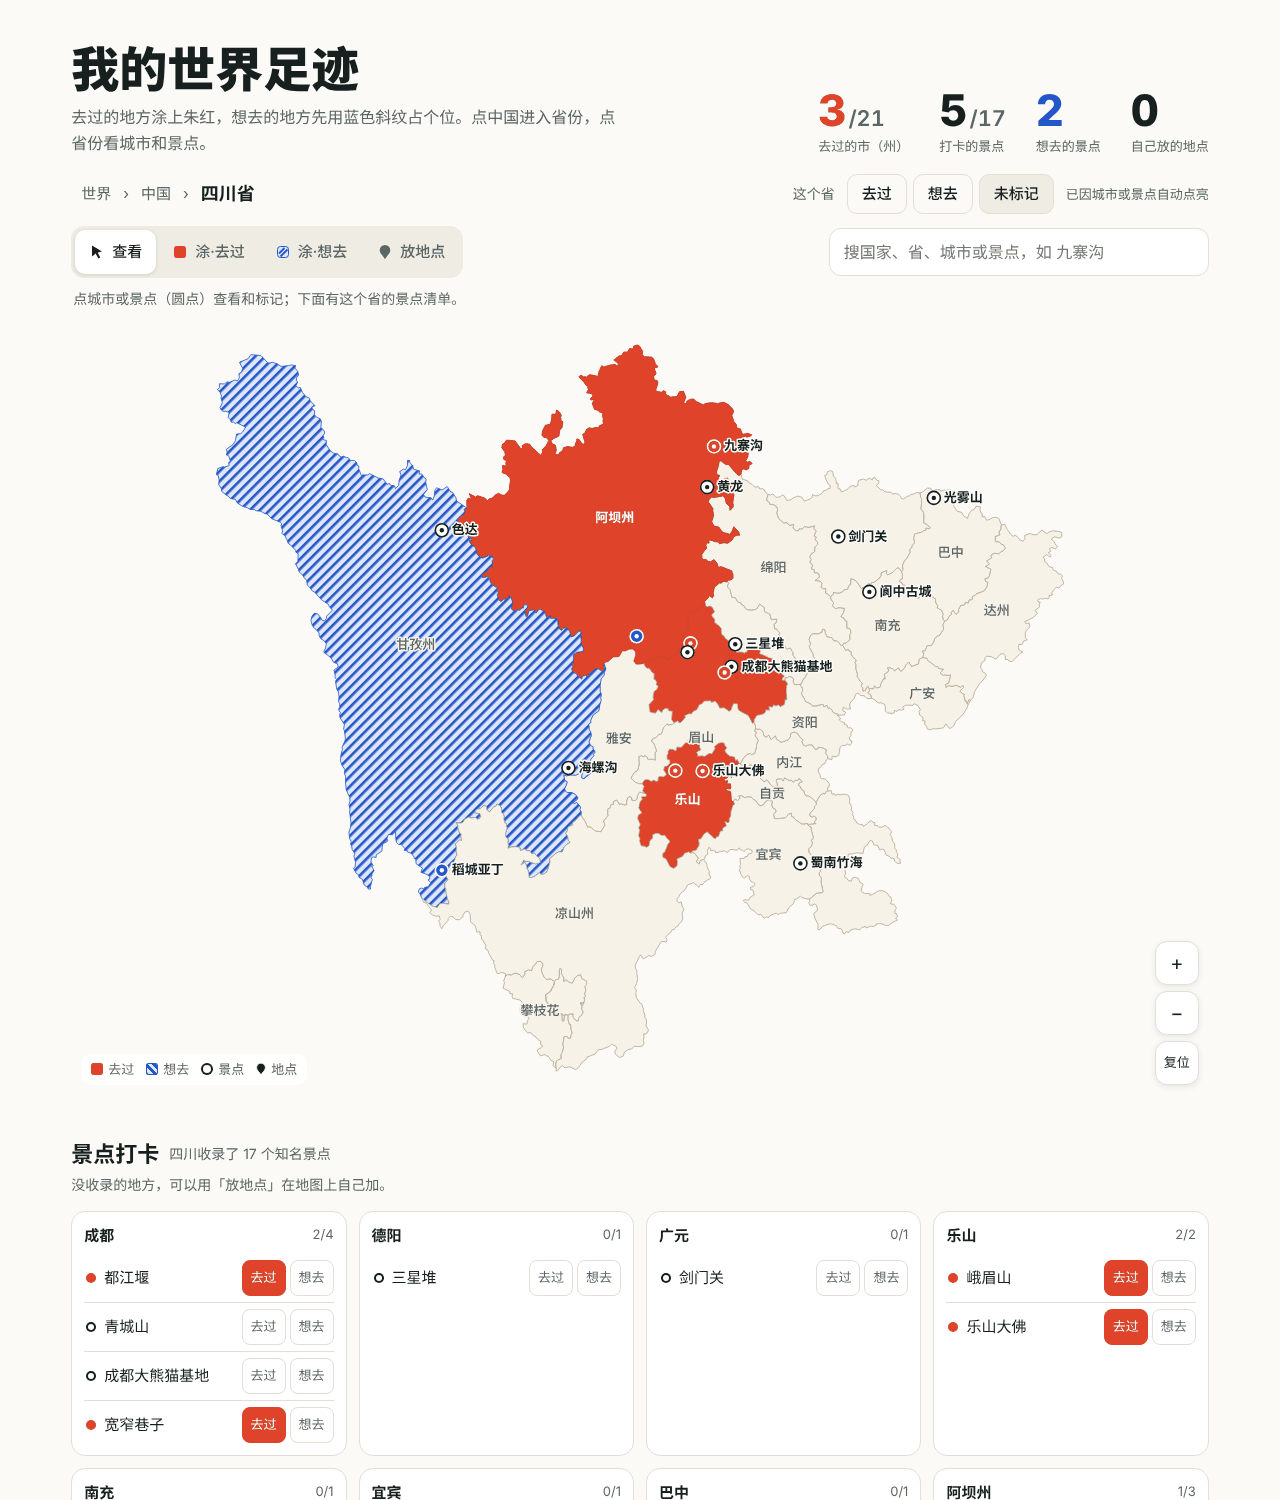
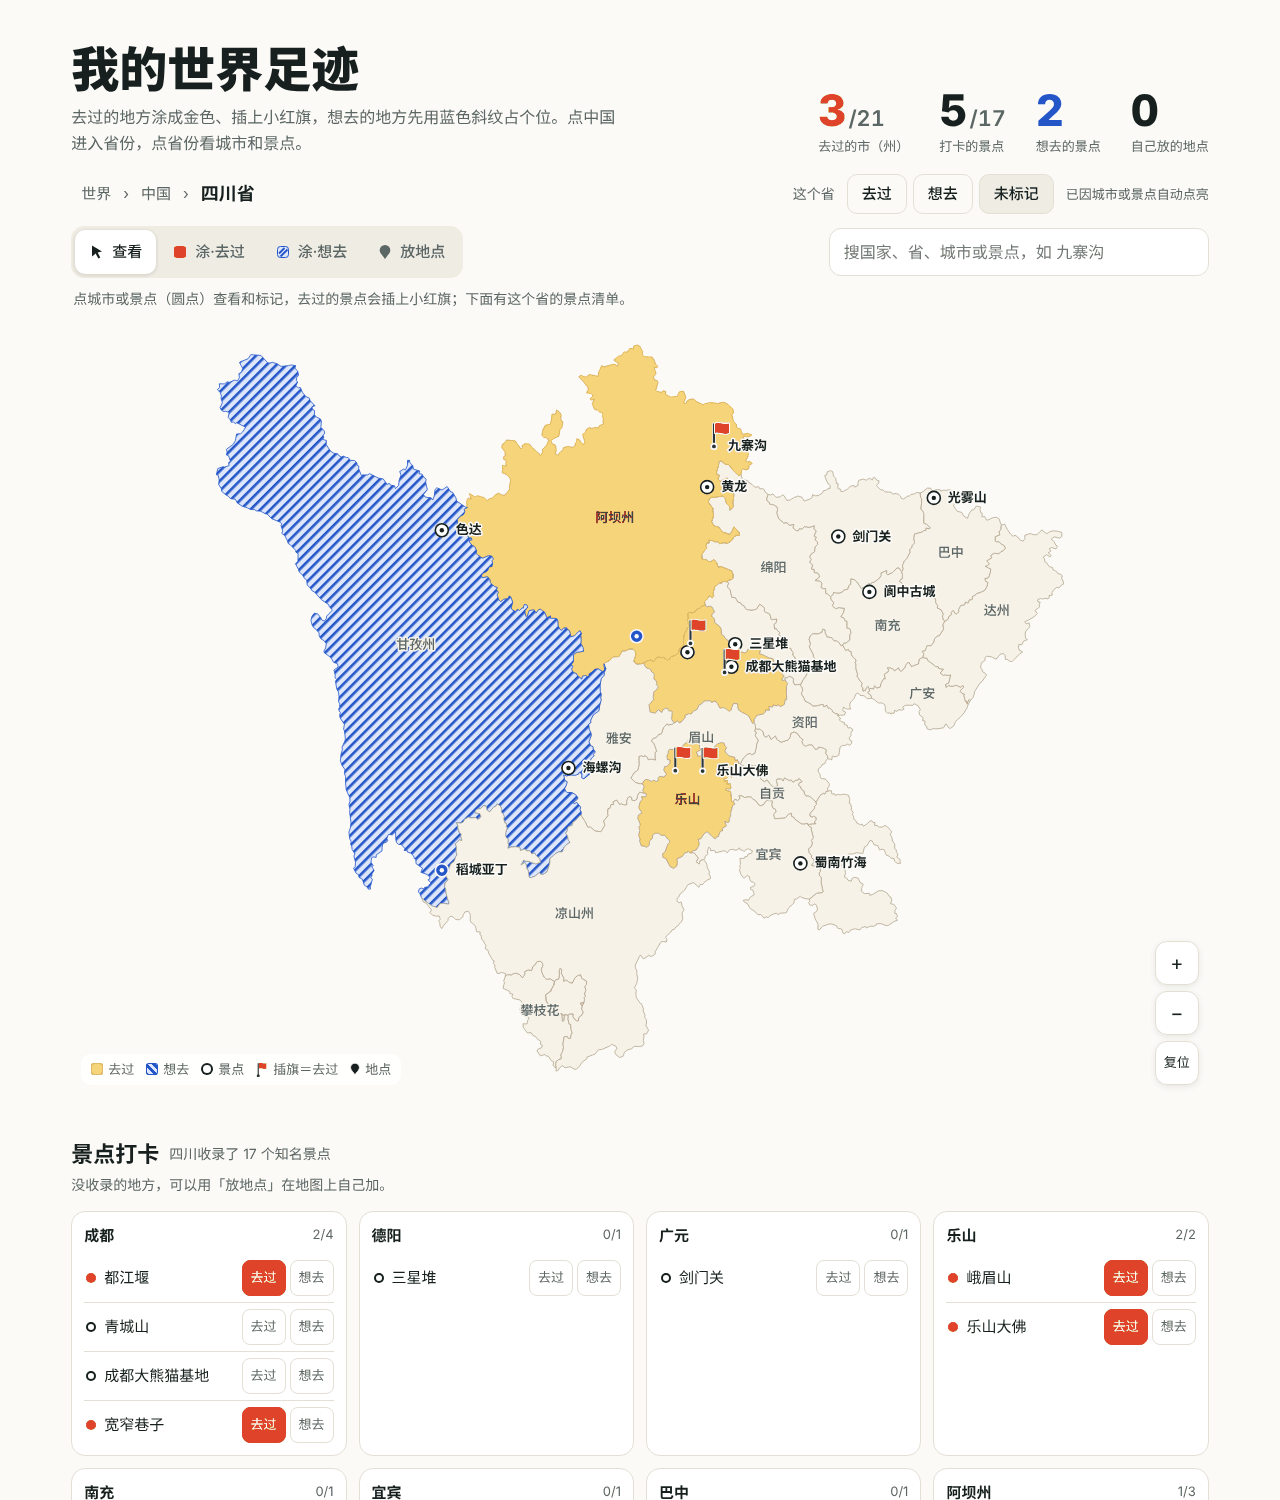
Add files via upload

diff --git a/app.js b/app.js
@@ -13,13 +13,15 @@ const ORDER=['AS','EU','AF','NA','SA','OC','AN'];
 const SN={been:'去过',want:'想去'};
 const W2CN={TW:'710000',HK:'810000',MO:'820000'};
 const PIN='M0 0C-1.5-4.5-8-8.2-8-13.5a8 8 0 1 1 16 0C8-8.2 1.5-4.5 0 0Z';
+// 小红旗：旗杆底部在 (0,0)
+const FLAG_POLE='M-0.9 0V-20h1.8V0Z',FLAG_CLOTH='M1-20C4.5-21.6 8-18.4 13-20V-11.6C8-10 4.5-13.2 1-11.6Z';
 const LS='worldmap.v2',LS1='worldmap.v1',LSG='worldmap.gh';
 const CN_BOX={type:'MultiPoint',coordinates:[[73.5,39.4],[135.1,48.4],[123.3,53.6],[109.6,18.1],[97.3,28.2],[87.5,49.2]]};
 const INSET_PROV=['440000','450000','460000','710000','350000','810000','820000'];
 const HINTS={
   world:{view:'点国家查看或标记，点中国进入省份地图；拖动平移，滚轮或双指缩放。',been:'涂色模式：点一下国家就标为「去过」，再点一下取消。',want:'涂色模式：点一下国家就标为「想去」，再点一下取消。',pin:'点地图上任意位置放一个地点，城市、海岛、雪山都行。'},
-  china:{view:'点省份进入局部图，看城市和景点。',been:'涂色模式：点一下省份就标为「去过」，再点一下取消。',want:'涂色模式：点一下省份就标为「想去」，再点一下取消。',pin:'点地图上任意位置放一个地点。'},
-  prov:{view:'点城市或景点（圆点）查看和标记；下面有这个省的景点清单。',been:'涂色模式：点城市或景点就标为「去过」，再点一下取消。',want:'涂色模式：点城市或景点就标为「想去」，再点一下取消。',pin:'点地图上任意位置放一个自己的地点，比如一家店、一条徒步线。'}
+  china:{view:'点省份进入局部图；去过的城市会插上小红旗，点小红旗可以直接打开那个城市。',been:'涂色模式：点一下省份就标为「去过」，再点一下取消。',want:'涂色模式：点一下省份就标为「想去」，再点一下取消。',pin:'点地图上任意位置放一个地点。'},
+  prov:{view:'点城市或景点（圆点）查看和标记，去过的景点会插上小红旗；下面有这个省的景点清单。',been:'涂色模式：点城市或景点就标为「去过」，再点一下取消。',want:'涂色模式：点城市或景点就标为「想去」，再点一下取消。',pin:'点地图上任意位置放一个自己的地点，比如一家店、一条徒步线。'}
 };
 const esc=v=>String(v??'').replace(/[&<>"']/g,c=>({'&':'&amp;','<':'&lt;','>':'&gt;','"':'&quot;',"'":'&#39;'}[c]));
 const str=(v,n)=>typeof v==='string'?v.slice(0,n):'';
@@ -40,7 +42,7 @@ const b64dec=s=>new TextDecoder().decode(Uint8Array.from(atob((s||'').replace(/\
 
 /* ---------- 状态 ---------- */
 const fig=$('#fig'),cardEl=$('#card'),tip=$('#tip'),syncEl=$('#sync');
-let NAMES={},SPOTS=[],SPOT={},WORLD=null,CHINA=null;const PROV={};
+let NAMES={},CENTERS={},SPOTS=[],SPOT={},WORLD=null,CHINA=null;const PROV={};
 let view='world',prov=null,curFeats=[],AREA={};
 let marks={},pins={},D={};
 let mode='view',backend='init',ro=false,db=null,envClaude=false;
@@ -49,7 +51,7 @@ let sel=null,W=0,H=0,K=1,T=d3.zoomIdentity,TE=[[0,0],[1,1]],lastPt=null,undoFn=n
 /* ---------- 地图骨架 ---------- */
 const svg=d3.select('#map');
 const root=svg.append('g');
-const gBg=root.append('g'),gC=root.append('g'),gDot=root.append('g'),gSpot=root.append('g'),gLbl=root.append('g'),gPin=root.append('g');
+const gBg=root.append('g'),gC=root.append('g'),gDot=root.append('g'),gLbl=root.append('g'),gSpot=root.append('g'),gFlag=root.append('g'),gPin=root.append('g');
 const gIns=svg.append('g').attr('class','ins');
 let proj=d3.geoEqualEarth();
 const path=d3.geoPath(proj);
@@ -70,8 +72,8 @@ function prep(f,key,name,sub){
   f.main=main;f.ga=d3.geoArea(f);return f;
 }
 async function loadBase(){
-  const [w,c,n,s]=await Promise.all([getJSON('data/world.json'),getJSON('data/china.json'),getJSON('data/names.json'),getJSON('data/spots.json')]);
-  NAMES=n;
+  const [w,c,n,s,ct]=await Promise.all([getJSON('data/world.json'),getJSON('data/china.json'),getJSON('data/names.json'),getJSON('data/spots.json'),getJSON('data/centers.json').catch(()=>({}))]);
+  NAMES=n;CENTERS=ct||{};
   SPOTS=s.filter(x=>x&&x.id&&x.n&&isFinite(x.lon)&&isFinite(x.lat));
   for(const x of SPOTS)SPOT[x.id]=x;
   const pf=topojson.feature(c,c.objects.prov).features.map(f=>{prep(f,f.properties.a,short(f.properties.n),f.properties.n);f.drill='#p-'+f.key;return f;});
@@ -311,14 +313,15 @@ function buildLabels(){
   LBL=[];
   if(view!=='world'){
     for(const f of curFeats){if(!f.cen||!isFinite(f.cen[0]))continue;LBL.push({id:'a'+f.key,key:f.key,x:f.cen[0],y:f.cen[1]+4,t:f.name,cls:'a',pri:f.a,w:f.name.length*13+6,h:16});}
-    if(view==='prov')for(const s of SPOTS){if(s.p!==prov)continue;const p=proj([s.lon,s.lat]);if(!p)continue;LBL.push({id:s.id,x:p[0],y:p[1]+4,dx:10,t:s.n,cls:'s',pri:1e12,w:s.n.length*13+6,h:16,st:true});}
+    if(view==='prov')for(const s of SPOTS){if(s.p!==prov)continue;const p=proj([s.lon,s.lat]);if(!p)continue;LBL.push({id:s.id,x:p[0],y:p[1]+4,dx:14,t:s.n,cls:'s',pri:1e12,w:s.n.length*13+6,h:16,st:true});}
   }
   gLbl.selectAll('text').data(LBL,d=>d.id).join('text').attr('class',d=>'lbl '+d.cls).attr('x',d=>d.dx||0).text(d=>d.t);
 }
 function placeLabels(){
   if(!LBL.length)return;
   const placed=[],vis=new Set();
-  if(view==='prov')for(const s of SPOTS){if(s.p!==prov)continue;const p=proj([s.lon,s.lat]);if(!p)continue;const q=T.apply(p);placed.push([q[0]-7,q[1]-7,q[0]+7,q[1]+7]);}
+  if(view==='prov')for(const s of SPOTS){if(s.p!==prov)continue;const p=proj([s.lon,s.lat]);if(!p)continue;const q=T.apply(p);placed.push(marks[s.id]&&marks[s.id].s==='been'?[q[0]-3,q[1]-24,q[0]+11,q[1]+3]:[q[0]-7,q[1]-7,q[0]+7,q[1]+7]);}
+  for(const d of FLAGS){const q=T.apply(d._p);placed.push([q[0]-3,q[1]-22,q[0]+15,q[1]+2]);}
   for(const d of LBL.slice().sort((a,b)=>b.pri-a.pri)){
     const q=T.apply([d.x,d.y]);
     const x0=d.st?q[0]+(d.dx||0):q[0]-d.w/2,y0=q[1]-d.h+3,box=[x0,y0,x0+d.w,y0+d.h];
@@ -334,8 +337,8 @@ function pinT(d){const p=proj([d.lon,d.lat])||[0,0];return `translate(${p[0]},${
 function scaleDeps(){
   d3.select('#hatch').attr('patternTransform',`rotate(45) scale(${1/K})`);
   gDot.selectAll('circle').attr('r',4.5/K);
-  const ss=view==='prov'?1:0.7;
-  gSpot.selectAll('g.spot').attr('transform',d=>`translate(${d._p[0]},${d._p[1]}) scale(${ss/K})`);
+  gSpot.selectAll('g.spot').attr('transform',d=>`translate(${d._p[0]},${d._p[1]}) scale(${1/K})`);
+  gFlag.selectAll('g.flag').attr('transform',d=>`translate(${d._p[0]},${d._p[1]}) scale(${1/K})`);
   gPin.selectAll('g.pin').attr('transform',pinT);
   gPin.classed('plbl',K>=2.5||view==='prov');
   gLbl.selectAll('text').attr('transform',d=>`translate(${d.x},${d.y}) scale(${1/K})`);
@@ -346,11 +349,15 @@ function renderMap(){
   gIns.selectAll('path.c').attr('class',cls);
   const small=view==='world'?curFeats.filter(f=>D[f.key]&&f.a<60):[];
   gDot.selectAll('circle').data(small,f=>f.key).join('circle').attr('class',f=>'dot '+D[f.key]).attr('cx',f=>f.cen[0]).attr('cy',f=>f.cen[1]);
-  const sp=view==='prov'?SPOTS.filter(s=>s.p===prov):view==='china'?SPOTS.filter(s=>marks[s.id]):[];
+  const sp=view==='prov'?SPOTS.filter(s=>s.p===prov):[];
   for(const s of sp)s._p=proj([s.lon,s.lat])||[0,0];
-  gSpot.selectAll('g.spot').data(sp,d=>d.id).join(en=>{const g=en.append('g');g.append('circle').attr('class','hit').attr('r',14);g.append('circle').attr('class','r').attr('r',6.5);g.append('circle').attr('class','d').attr('r',2.2);return g;})
+  gSpot.selectAll('g.spot').data(sp,d=>d.id).join(en=>{const g=en.append('g');g.append('circle').attr('class','hit').attr('r',14);g.append('circle').attr('class','r').attr('r',6.5);g.append('circle').attr('class','d').attr('r',2.2);flagInto(g);return g;})
     .attr('class',d=>'spot'+(marks[d.id]?' '+marks[d.id].s:'')+(sel&&sel.t==='s'&&sel.id===d.id?' sel':'')).attr('data-id',d=>d.id);
-  gSpot.selectAll('g.spot.sel').raise();
+  gSpot.selectAll('g.spot.sel').raise();gSpot.selectAll('g.spot.been').raise();
+  FLAGS=view==='china'?cityFlags():[];
+  for(const d of FLAGS)d._p=proj([d.lon,d.lat])||[0,0];
+  gFlag.selectAll('g.flag').data(FLAGS,d=>d.id).join(en=>{const g=en.append('g').attr('class','flag');g.append('rect').attr('class','hit').attr('x',-6).attr('y',-24).attr('width',22).attr('height',28);flagInto(g);return g;})
+    .attr('data-id',d=>d.id);
   const list=Object.entries(pins).map(([id,p])=>Object.assign({id},p));
   if(sel&&sel.t==='new')list.push({id:'__new',s:'new',name:'',lon:sel.lon,lat:sel.lat});
   gPin.selectAll('g.pin').data(list,d=>d.id).join(en=>{const g=en.append('g');g.append('path').attr('d',PIN);g.append('circle').attr('cy',-13.5).attr('r',3);g.append('text').attr('x',10).attr('y',-9);return g;})
@@ -359,6 +366,27 @@ function renderMap(){
   gPin.selectAll('g.pin.sel').raise();
   gLbl.selectAll('text.a').classed('on',d=>D[d.key]==='been');
   scaleDeps();
+}
+function flagInto(g){
+  // 旗杆底部正好落在地点中心的小圆点上
+  const f=g.append('g').attr('class','flg').attr('transform','scale(1.15)');
+  f.append('path').attr('class','fp').attr('d',FLAG_POLE);
+  f.append('path').attr('class','fc').attr('d',FLAG_CLOTH);
+  f.append('circle').attr('class','fb').attr('r',2.4);
+}
+let FLAGS=[];
+const MUNI=['110000','120000','310000','500000','810000','820000'];
+// 中国地图上的小红旗：去过的城市（直辖市、港澳合并成一面旗，台湾按省算）
+function cityFlags(){
+  const out=[];
+  for(const a of Object.keys(NAMES)){
+    if(a.endsWith('0000'))continue;
+    const p=a.slice(0,2)+'0000';
+    if(MUNI.includes(p)||D[a]!=='been'||!CENTERS[a])continue;
+    out.push({id:a,prov:p,lon:CENTERS[a][0],lat:CENTERS[a][1],n:short(NAMES[a])});
+  }
+  for(const p of MUNI.concat(['710000']))if(D[p]==='been'&&CENTERS[p]&&(p==='710000'||Object.keys(NAMES).some(a=>a!==p&&a.startsWith(p.slice(0,2))&&D[a]==='been')||marks[p]))out.push({id:p,prov:p,lon:CENTERS[p][0],lat:CENTERS[p][1],n:short(NAMES[p])});
+  return out;
 }
 function fitT(g){
   const [[x0,y0],[x1,y1]]=path.bounds(g);
@@ -382,7 +410,8 @@ function scrollToMap(){const r=fig.getBoundingClientRect();if(r.top<0||r.bottom>
 svg.on('click',e=>{
   if(!curFeats.length)return;
   lastPt=d3.pointer(e,fig);
-  const t=e.target,pg=t.closest&&t.closest('g.pin'),sg=t.closest&&t.closest('g.spot');
+  const t=e.target,pg=t.closest&&t.closest('g.pin'),sg=t.closest&&t.closest('g.spot'),fg=t.closest&&t.closest('g.flag');
+  if(fg&&fg.__data__){const d=fg.__data__;if(d.id===d.prov)nav('#p-'+d.prov);else goThen('#p-'+d.prov,()=>focusArea(d.id));return;}
   if(pg){const id=pg.getAttribute('data-id');if(id!=='__new')openSel({t:'p',id});return;}
   if(sg){const id=sg.getAttribute('data-id');if((mode==='been'||mode==='want')&&!ro)brushKey(id);else openSel({t:'s',id});return;}
   if(mode==='pin'&&!ro){
@@ -407,7 +436,9 @@ svg.on('pointermove',e=>{
   if(t.classList&&(t.classList.contains('c')||t.classList.contains('dot'))){const f=t.__data__;txt=f.name+(D[f.key]?' · '+SN[D[f.key]]:'')+(f.drill&&mode==='view'?' · 点击进入':'');}
   else{
     const sg=t.closest&&t.closest('g.spot'),pg=t.closest&&t.closest('g.pin');
-    if(sg&&sg.__data__){const s=sg.__data__;txt=s.n+(marks[s.id]?' · '+SN[marks[s.id].s]:'');}
+    const fg=t.closest&&t.closest('g.flag');
+    if(fg&&fg.__data__)txt=fg.__data__.n+' · 去过 · 点击查看';
+    else if(sg&&sg.__data__){const s=sg.__data__;txt=s.n+(marks[s.id]?' · '+SN[marks[s.id].s]:'');}
     else if(pg&&pg.__data__&&pg.__data__.id!=='__new')txt=pg.__data__.name+' · '+SN[pg.__data__.s];
   }
   if(!txt){tip.hidden=true;return;}
@@ -645,7 +676,7 @@ async function route(){
   sel=null;cardEl.hidden=true;tip.hidden=true;
   document.body.classList.remove('v-world','v-china','v-prov');document.body.classList.add('v-'+v);
   gC.selectAll('path').data(curFeats,f=>f.key).join('path').order();
-  gSpot.selectAll('*').remove();gLbl.selectAll('*').remove();gDot.selectAll('*').remove();
+  gSpot.selectAll('*').remove();gFlag.selectAll('*').remove();gLbl.selectAll('*').remove();gDot.selectAll('*').remove();FLAGS=[];
   layout(true);renderAll();setMode(mode==='pin'||mode==='view'||!ro?mode:'view');
   document.title=v==='world'?'我的世界足迹':v==='china'?'中国 · 我的世界足迹':short(NAMES[p])+' · 我的世界足迹';
   if(pendingFocus){const f=pendingFocus;pendingFocus=null;f();}
@@ -788,7 +819,7 @@ async function initStorage(){
   }
   updGhBtn();
   const repo=ghGuess();
-  if(repo){const ab=$('#about');ab.innerHTML=`这是一张旅行足迹地图，红色是去过的地方，蓝色斜纹是想去的地方。网页代码在 <a href="https://github.com/${esc(repo)}">github.com/${esc(repo)}</a>，你也可以复制一份，做自己的足迹地图。`;ab.hidden=false;}
+  if(repo){const ab=$('#about');ab.innerHTML=`这是一张旅行足迹地图，金色和小红旗是去过的地方，蓝色斜纹是想去的地方。网页代码在 <a href="https://github.com/${esc(repo)}">github.com/${esc(repo)}</a>，你也可以复制一份，做自己的足迹地图。`;ab.hidden=false;}
   const cfg=ghReadCfg();
   if(cfg){
     GH.cfg=cfg;backend='github';updGhBtn();

diff --git a/style.css b/style.css
@@ -7,7 +7,9 @@
 --bg:light-dark(#fbfaf7,#0c1719);--ink:light-dark(#17201e,#eaf0ed);--mut:light-dark(#5b6764,#9aaca8);--line:light-dark(#e3dfd5,#22373a);
 --sea:light-dark(#bfdfd8,#11393f);--grat:light-dark(rgba(255,255,255,.65),rgba(255,255,255,.07));
 --land:light-dark(#f6f2e8,#294542);--landh:light-dark(#ebe3d0,#34544f);--bd:light-dark(#b2a790,#4e716c);
---been:light-dark(#df432a,#ff6a4e);--beenbg:light-dark(#fde4dd,#3d211b);--beenbd:light-dark(#b0321e,#ffa08c);
+--been:light-dark(#df432a,#ff6a4e);--beenbg:light-dark(#fbefc8,#3a3015);--beenbd:light-dark(#d4a93e,#f2cf6b);
+/* 去过：地区涂金色，景点和城市插小红旗 */
+--beenfill:light-dark(#f6d47a,#d8ae45);--beenlbl:light-dark(#5a4000,#2b1f00);--flag:light-dark(#d6281b,#ff4b37);--flagpole:light-dark(#3a2a26,#f3ead8);
 --want:light-dark(#2456c8,#8db0ff);--wantbg:light-dark(#dde6fb,#1f3357);--on:light-dark(#fff,#0c1719);
 --card:light-dark(#fff,#13252a);--chip:light-dark(#efece3,#182c2f);
 --f:"Noto Sans SC",system-ui,-apple-system,"PingFang SC","Microsoft YaHei",sans-serif;--num:"Archivo",var(--f)}
@@ -78,7 +80,7 @@ h1{font-size:clamp(32px,4.4vw,48px);line-height:1.05;margin:0;font-weight:900;te
 .c{fill:var(--land);stroke:var(--bd);stroke-width:.5;vector-effect:non-scaling-stroke;cursor:pointer;transition:fill .3s}
 .v-china .c,.v-prov .c{stroke-width:.8}
 .c:hover{fill:var(--landh)}
-.c.been{fill:var(--been);stroke:var(--beenbd)}
+.c.been{fill:var(--beenfill);stroke:var(--beenbd)}
 .c.want{fill:url(#hatch);stroke:var(--want)}
 .c.sel{stroke:var(--ink);stroke-width:2}
 .c.drill:hover{fill:var(--landh)}
@@ -96,10 +98,18 @@ svg[data-mode=been] .c,svg[data-mode=want] .c{cursor:cell}
 .spot.want .r{fill:var(--want);stroke:var(--bg)}.spot.want .d{fill:var(--bg)}
 .spot.sel .r{stroke:var(--ink);stroke-width:2.4}
 .spot .hit{fill:transparent}
+.spot .flg{display:none}
+.spot.been .r,.spot.been .d{display:none}
+.spot.been .flg{display:inline}
+.flg .fp{fill:var(--flagpole);stroke:var(--bg);stroke-width:1.2;paint-order:stroke}
+.flg .fc{fill:var(--flag);stroke:var(--bg);stroke-width:2;stroke-linejoin:round;paint-order:stroke}
+.flg .fb{fill:var(--flagpole);stroke:var(--bg);stroke-width:1.5}
+.spot.been.sel .fc{stroke:var(--ink);stroke-width:1.8}
+.flag{cursor:pointer}.flag .hit{fill:transparent}
 .lbl{font:500 12px var(--f);fill:var(--mut);paint-order:stroke;stroke:var(--land);stroke-width:3px;stroke-linejoin:round;pointer-events:none;text-anchor:middle}
 .lbl.s{font-weight:700;fill:var(--ink);stroke:var(--bg);text-anchor:start;font-size:13px}
 .lbl.a{font-size:13px}
-.lbl.on{fill:var(--on);stroke:none;font-weight:700}
+.lbl.on{fill:var(--beenlbl);stroke:none;font-weight:700}
 .lbl.hid{display:none}
 .pin{cursor:pointer}.pin path{fill:var(--been);stroke:var(--bg);stroke-width:1.5}.pin.want path{fill:var(--want)}.pin.new path{fill:var(--ink)}
 .pin circle{fill:var(--bg)}.pin.sel path{stroke:var(--ink);stroke-width:2}
@@ -107,11 +117,12 @@ svg[data-mode=been] .c,svg[data-mode=want] .c{cursor:cell}
 .plbl .pin text,.pin.sel text,.pin:hover text{opacity:1}
 .legend{position:absolute;left:10px;bottom:10px;display:flex;gap:6px 12px;flex-wrap:wrap;padding:5px 10px;border-radius:10px;background:color-mix(in srgb,var(--card) 88%,transparent);font-size:13px;color:var(--mut);pointer-events:none;max-width:calc(100% - 80px)}
 .legend span{display:inline-flex;align-items:center;gap:5px;white-space:nowrap}
-.v-world .lg-spot{display:none}
+.v-world .lg-spot,.v-china .lg-spot,.v-world .lg-flag{display:none}
+.sw.flagi{background:none;width:12px;height:15px;border-radius:0}
 .v-china .legend{max-width:calc(100% - 260px)}
 @media(max-width:700px){.v-china .legend{max-width:calc(100% - 170px)}}
 .sw{display:inline-block;width:12px;height:12px;border-radius:3px;flex:none}
-.sw.been{background:var(--been)}.sw.want{background:repeating-linear-gradient(45deg,var(--want) 0 2.5px,var(--wantbg) 2.5px 6px);box-shadow:inset 0 0 0 1px var(--want)}
+.sw.been{background:var(--beenfill);box-shadow:inset 0 0 0 1px var(--beenbd)}.sw.want{background:repeating-linear-gradient(45deg,var(--want) 0 2.5px,var(--wantbg) 2.5px 6px);box-shadow:inset 0 0 0 1px var(--want)}
 .sw.spot{border-radius:50%;background:var(--card);box-shadow:inset 0 0 0 2px var(--ink)}
 .sw.pin{background:none;width:10px;height:14px}
 .zoom{position:absolute;right:10px;bottom:10px;display:grid;gap:6px}

diff --git a/index.html b/index.html
@@ -17,7 +17,7 @@
 <header class="wrap band top">
   <div class="ttl">
     <h1>我的世界足迹</h1>
-    <p>去过的地方涂上朱红，想去的地方先用蓝色斜纹占个位。点中国进入省份，点省份看城市和景点。</p>
+    <p>去过的地方涂成金色、插上小红旗，想去的地方先用蓝色斜纹占个位。点中国进入省份，点省份看城市和景点。</p>
   </div>
   <div class="stats" id="stats"></div>
 </header>
@@ -31,7 +31,7 @@
   <div class="tools">
     <div class="modes" role="group" aria-label="操作方式">
       <button data-m="view" aria-pressed="true"><svg viewBox="0 0 16 16" aria-hidden="true"><path d="M3 1.5l10 6-4.3 1.1 2.6 5-2 1-2.6-5L3 12.6z" fill="currentColor"/></svg>查看</button>
-      <button data-m="been" aria-pressed="false"><svg viewBox="0 0 16 16" aria-hidden="true"><rect x="2" y="2" width="12" height="12" rx="3" style="fill:var(--been)"/></svg>涂·去过</button>
+      <button data-m="been" aria-pressed="false"><svg viewBox="0 0 16 16" aria-hidden="true"><rect x="2.5" y="2.5" width="11" height="11" rx="3" style="fill:var(--beenfill);stroke:var(--beenbd)"/></svg>涂·去过</button>
       <button data-m="want" aria-pressed="false"><svg viewBox="0 0 16 16" aria-hidden="true"><rect x="2.5" y="2.5" width="11" height="11" rx="3" style="fill:var(--wantbg);stroke:var(--want)"/><path d="M4 9.5l5.5-5.5M5.5 12.5l7-7" style="stroke:var(--want);stroke-width:1.8"/></svg>涂·想去</button>
       <button data-m="pin" aria-pressed="false"><svg viewBox="-9 -23 18 24" aria-hidden="true"><path d="M0 0C-1.5-4.5-8-8.2-8-13.5a8 8 0 1 1 16 0C8-8.2 1.5-4.5 0 0Z" fill="currentColor"/></svg>放地点</button>
     </div>
@@ -54,6 +54,7 @@
       <span><i class="sw been"></i>去过</span>
       <span><i class="sw want"></i>想去</span>
       <span class="lg-spot"><i class="sw spot"></i>景点</span>
+      <span class="lg-flag"><svg class="sw flagi" viewBox="-3 -22 18 24"><path d="M-0.9 0V-20h1.8V0Z" style="fill:var(--flagpole)"/><path d="M1-20C4.5-21.6 8-18.4 13-20V-11.6C8-10 4.5-13.2 1-11.6Z" style="fill:var(--flag)"/><circle r="2.4" style="fill:var(--flagpole)"/></svg>插旗＝去过</span>
       <span><svg class="sw pin" viewBox="-9 -23 18 24"><path d="M0 0C-1.5-4.5-8-8.2-8-13.5a8 8 0 1 1 16 0C8-8.2 1.5-4.5 0 0Z" style="fill:var(--ink)"/></svg>地点</span>
     </div>
     <div class="zoom">
